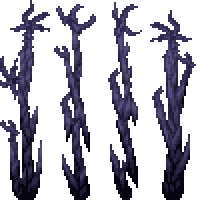
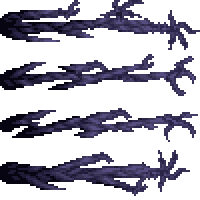
start reworking cursed sapling AI

diff --git a/Projectiles/Minions/CombatPets/SpecialNonBossPets/CursedSapling.cs b/Projectiles/Minions/CombatPets/SpecialNonBossPets/CursedSapling.cs
@@ -1,0 +1,142 @@
+using AmuletOfManyMinions.Projectiles.Minions.CombatPets.CombatPetBaseClasses;
+using static Terraria.ModLoader.ModContent;
+using Terraria.ID;
+using AmuletOfManyMinions.Projectiles.Minions.CombatPets.MasterModeBossPets;
+using AmuletOfManyMinions.Projectiles.Squires.PumpkinSquire;
+using Terraria;
+using AmuletOfManyMinions.Items.Armor;
+using Microsoft.Xna.Framework;
+using AmuletOfManyMinions.Projectiles.Minions.VanillaClones;
+using Terraria.ModLoader;
+using Microsoft.Xna.Framework.Graphics;
+using System;
+using AmuletOfManyMinions.Core;
+
+namespace AmuletOfManyMinions.Projectiles.Minions.CombatPets.SpecialNonBossPets
+{
+	public class CursedSaplingMinionBuff : CombatPetVanillaCloneBuff
+	{
+		internal override int[] ProjectileTypes => new int[] { ProjectileType<CursedSaplingMinion>() };
+		public override string VanillaBuffName => "CursedSapling";
+		public override int VanillaBuffId => BuffID.CursedSapling;
+	}
+
+	public class CursedSaplingMinionItem : CombatPetMinionItem<CursedSaplingMinionBuff, CursedSaplingMinion>
+	{
+		internal override string VanillaItemName => "CursedSapling";
+		internal override int VanillaItemID => ItemID.CursedSapling;
+	}
+
+	public class CursedSaplingBranchProjectile : ModProjectile
+	{
+		int TimeToLive = 60;
+
+		int frame = -1;
+		SpriteEffects effects;
+		float maxScale;
+		Vector2 growthDirection;
+
+		int animationFrame => TimeToLive - Projectile.timeLeft;
+
+
+		public override void SetStaticDefaults()
+		{
+			ProjectileID.Sets.MinionShot[Projectile.type] = true;
+			Main.projFrames[Projectile.type] = 4;
+		}
+
+		public override void SetDefaults()
+		{
+			base.SetDefaults();
+			Projectile.width = 16;
+			Projectile.height = 16;
+			Projectile.timeLeft = TimeToLive;
+			Projectile.penetrate = -1;
+			Projectile.usesLocalNPCImmunity = true;
+			Projectile.localNPCHitCooldown = 30;
+			Projectile.friendly = true;
+			Projectile.tileCollide = false;
+		}
+
+		public override void AI()
+		{
+			if(frame == -1)
+			{
+				frame = Main.rand.Next(4);
+				effects = Main.rand.NextBool() ? SpriteEffects.FlipVertically : SpriteEffects.None;
+				// use initial velocity to transmit basic state in an MP-safe way
+				growthDirection = Projectile.velocity;
+				maxScale = Projectile.velocity.Length();
+				growthDirection.SafeNormalize();
+				Projectile.rotation = growthDirection.ToRotation();
+				Projectile.velocity = Vector2.Zero;
+			}
+		}
+
+
+		public override void Kill(int timeLeft)
+		{
+			//
+		}
+
+		public override bool PreDraw(ref Color lightColor)
+		{
+			Texture2D texture = Terraria.GameContent.TextureAssets.Projectile[Type].Value;
+			int frameHeight = texture.Height / Main.projFrames[Type];
+			float scale = maxScale * Math.Min(1, animationFrame / 12f);
+			Vector2 centerOffset = texture.Width * 0.5f * scale * growthDirection;
+
+			Rectangle bounds = new(0, frame * frameHeight, texture.Width, frameHeight);
+			Main.EntitySpriteDraw(texture, Projectile.Center + centerOffset - Main.screenPosition,
+				bounds, lightColor * scale, Projectile.rotation, bounds.GetOrigin(), scale, effects, 0);
+			return false;
+		}
+	}
+
+	public class CursedSaplingMinion : CombatPetGroundedRangedMinion
+	{
+		public override string Texture => "Terraria/Images/Projectile_" + ProjectileID.CursedSapling;
+		internal override int BuffId => BuffType<CursedSaplingMinionBuff>();
+		internal override int? ProjId => ProjectileType<CursedSaplingBranchProjectile>();
+
+		internal override Vector2 LaunchPos => Projectile.Top;
+		public override void SetDefaults()
+		{
+			base.SetDefaults();
+			ConfigureDrawBox(24, 30, -8, -32, -1);
+			ConfigureFrames(10, (0, 0), (3, 6), (1, 1), (7, 10));
+		}
+
+		public override void LaunchProjectile(Vector2 launchVector, float? ai0 = null)
+		{
+			base.LaunchProjectile(launchVector, ai0);
+			Projectile.NewProjectile(
+				Projectile.GetSource_FromThis(),
+				LaunchPos,
+				VaryLaunchVelocity(launchVector),
+				(int)ProjId,
+				(int)(ModifyProjectileDamage(leveledPetPlayer.PetLevelInfo) * Projectile.damage),
+				Projectile.knockBack,
+				player.whoAmI,
+				ai0: ai0 ?? Projectile.whoAmI);
+		}
+
+		public override void Animate(int minFrame = 0, int? maxFrame = null)
+		{
+			base.Animate(minFrame, maxFrame);
+			if(gHelper.isFlying)
+			{
+				Lighting.AddLight(Projectile.Center, Color.Red.ToVector3() * 0.5f);
+				for(int i = 0; i < 2; i++)
+				{
+					int dustId = Dust.NewDust(Projectile.position, Projectile.width, Projectile.height, 6, 0f, 0f, 100);
+					Main.dust[dustId].position.X -= 2f;
+					Main.dust[dustId].position.Y += 2f;
+					Main.dust[dustId].scale += Main.rand.NextFloat(0.5f);
+					Main.dust[dustId].noGravity = true;
+					Main.dust[dustId].velocity.Y -= 2f;
+				}
+			}
+		}
+	}
+}

diff --git a/Projectiles/Minions/VanillaClones/VanillaCloneMinionItem.cs b/Projectiles/Minions/VanillaClones/VanillaCloneMinionItem.cs
@@ -35,12 +35,12 @@ namespace AmuletOfManyMinions.Projectiles.Minions.VanillaClones
 
 		public override void AddRecipes()
 		{
-			Recipe recipe = Mod.CreateRecipe(VanillaItemID);
+			Recipe recipe = Recipe.Create(VanillaItemID);
 			recipe.AddIngredient(Type, 1);
 			recipe.AddTile(TileID.DemonAltar);
 			recipe.Register();
 
-			Recipe reciprocal = Mod.CreateRecipe(Type);
+			Recipe reciprocal = Recipe.Create(Type);
 			reciprocal.AddIngredient(VanillaItemID, 1);
 			reciprocal.AddTile(TileID.DemonAltar);
 			reciprocal.Register();

diff --git a/Projectiles/Minions/CombatPets/MasterModeBossPets/Deerclops.cs b/Projectiles/Minions/CombatPets/MasterModeBossPets/Deerclops.cs
@@ -118,8 +118,6 @@ namespace AmuletOfManyMinions.Projectiles.Minions.CombatPets.MasterModeBossPets
 	{
 		public override string Texture => "Terraria/Images/Projectile_" + ProjectileID.DeerclopsRangedProjectile;
 		int TimeToLive = 60;
-		float travelDistance;
-		float travelVelocity = 8;
 
 		int frame = -1;
 

diff --git a/Projectiles/Minions/CombatPets/SpecialNonBossPets/Squashling.cs b/Projectiles/Minions/CombatPets/SpecialNonBossPets/Squashling.cs
@@ -130,7 +130,6 @@ namespace AmuletOfManyMinions.Projectiles.Minions.CombatPets.SpecialNonBossPets
 		public override void AfterMoving()
 		{
 			// Don't disable collisions
-			Main.NewText(Projectile.friendly);
 		}
 	}
 }
